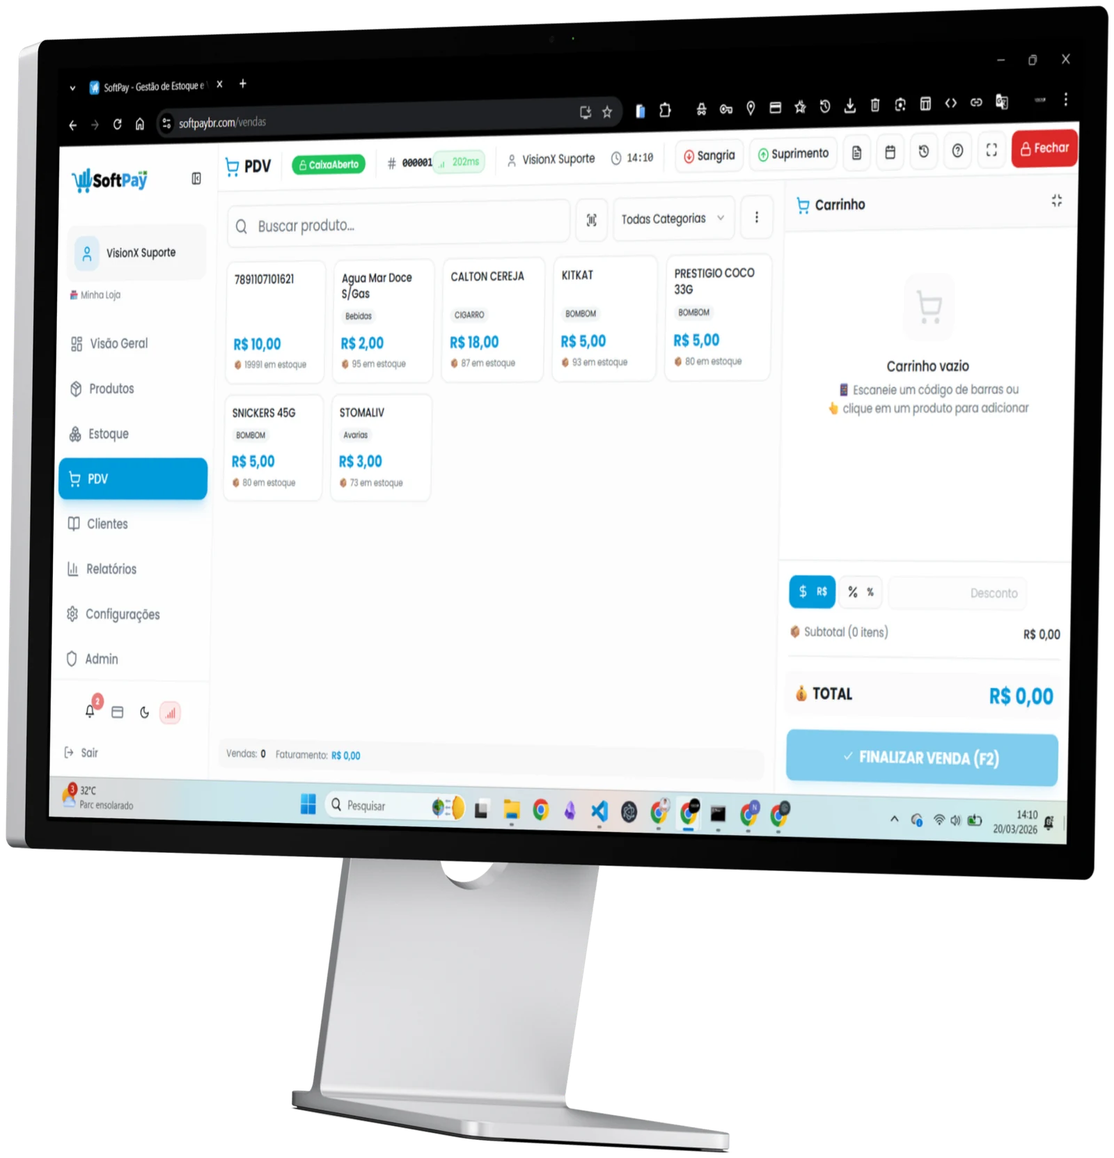
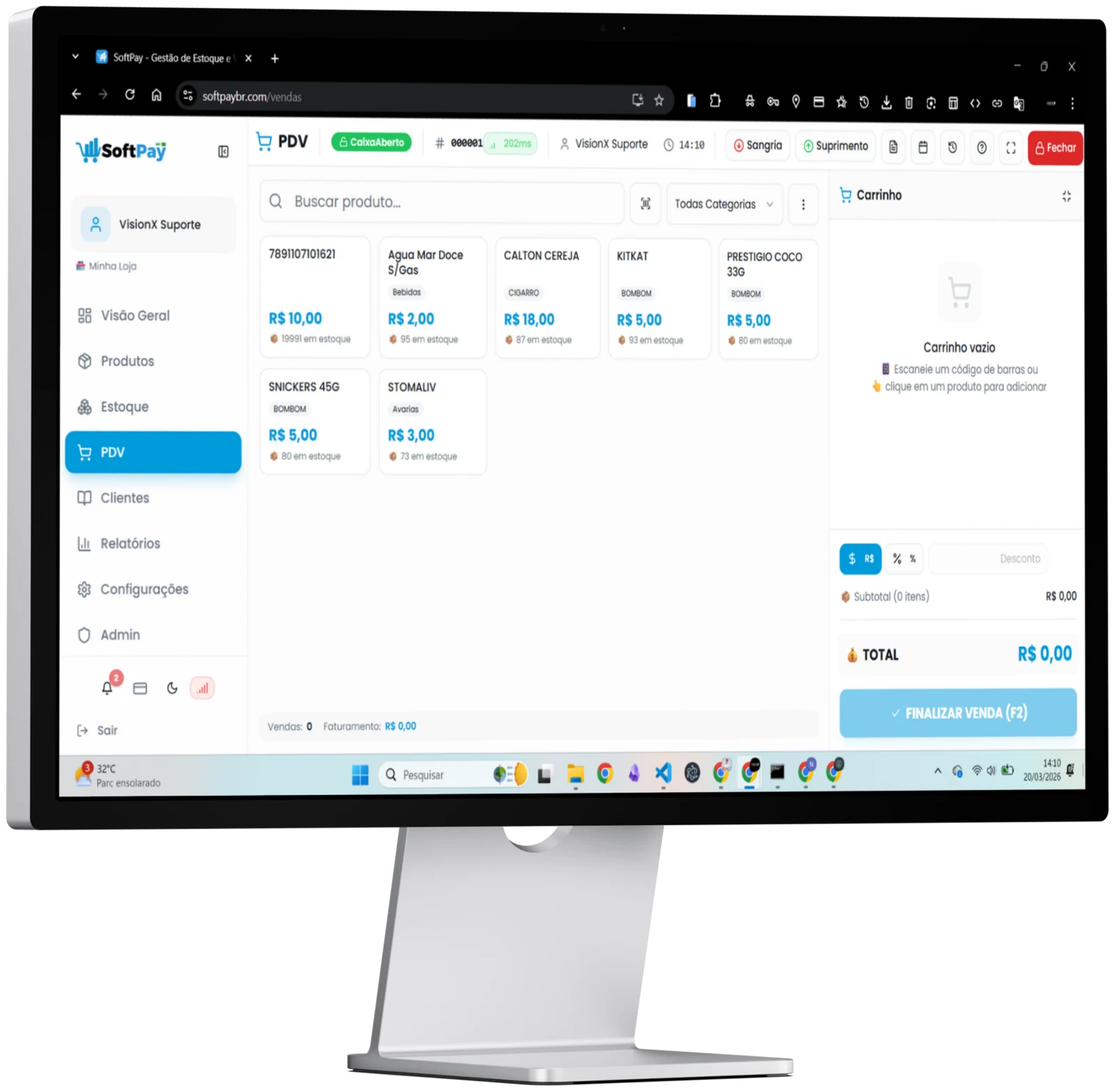
Hero: corrige só a tela e deixa a base intocada — terceira versão, agora medida
As duas versões anteriores entortaram a base, e eu aprovei as duas olhando de
longe. Medido agora, no arquivo, em vez de no olho:

  original      topo +4,77°   moldura inferior -0,30°   base +0,14°
  versão 70%    topo -1,85°   moldura inferior +1,88°   base +5,12°

Ou seja: a arte de origem não é uma rotação 3D — só o topo é inclinado; a
moldura inferior e a base já eram niveladas e coerentes entre si. A
transformada projetiva que eu aplicava, ao nivelar o topo, girava tudo abaixo
da tela para o lado oposto: a base saía de +0,14° para +5,12°. Era isso que
"não seguia o monitor".

Correção certa: reescala vertical por coluna, só na faixa entre o topo do
monitor e o fundo da moldura (y=2521 no original), reduzindo 85% da
inclinação do topo. Abaixo da moldura, identidade — haste e base não são
tocadas, então continuam exatamente como no render.

  resultado     topo +0,72°   moldura inferior -0,30°   base +0,14°

A altura da borda direita da tela vai de 90% para 99% da esquerda: a tela
olha para quem lê, com uma sobra de perspectiva de propósito ("semi reto").

- assets/COmputador.webp: 1600x1567, 101 KB.
- index.html: height 1567 nas duas tags.
- CSS não muda. Medido: 529px de largura no desktop, o mesmo do original.

Resíduo que não se resolve em 2D: a borda prateada esquerda do monitor segue
visível e a direita não, porque o render foi feito virado. Só um novo render
3D corrige; é sutil.

diff --git a/public/index.html b/public/index.html
@@ -28,7 +28,7 @@
     <meta property="og:title" content="Sistema de Gestão para Pequenos Negócios | SoftPay" />
     <meta property="og:description"
         content="Controle vendas, estoque, caixa, fiado e muito mais em um sistema simples e completo para pequenos negócios. Teste o SoftPay grátis por 7 dias." />
-    <meta property="og:image" content="https://site.softpaybr.com/assets/COmputador.webp?v=d928fe14a3" />
+    <meta property="og:image" content="https://site.softpaybr.com/assets/COmputador.webp?v=14eb0e9e1b" />
     <meta property="og:image:alt" content="Painel do SoftPay aberto em um computador" />
 
     <!-- X / Twitter Card -->
@@ -36,10 +36,10 @@
     <meta name="twitter:title" content="Sistema de Gestão para Pequenos Negócios | SoftPay" />
     <meta name="twitter:description"
         content="Controle vendas, estoque, caixa, fiado e muito mais em um sistema simples e completo para pequenos negócios. Teste o SoftPay grátis por 7 dias." />
-    <meta name="twitter:image" content="https://site.softpaybr.com/assets/COmputador.webp?v=d928fe14a3" />
+    <meta name="twitter:image" content="https://site.softpaybr.com/assets/COmputador.webp?v=14eb0e9e1b" />
     <link rel="preconnect" href="https://fonts.googleapis.com" />
     <link rel="preconnect" href="https://fonts.gstatic.com" crossorigin />
-    <link rel="preload" as="image" href="/assets/COmputador.webp?v=d928fe14a3" fetchpriority="high" />
+    <link rel="preload" as="image" href="/assets/COmputador.webp?v=14eb0e9e1b" fetchpriority="high" />
     <link rel="preload" as="style" href="https://fonts.googleapis.com/css2?family=Plus+Jakarta+Sans:wght@400;500;600;700;800&display=swap" />
     <link rel="stylesheet" href="https://fonts.googleapis.com/css2?family=Plus+Jakarta+Sans:wght@400;500;600;700;800&display=swap"
         media="print" onload="this.media='all';this.onload=null" />
@@ -135,7 +135,7 @@
           "about": {
             "@id": "https://site.softpaybr.com/#softpay"
           },
-          "primaryImageOfPage": "https://site.softpaybr.com/assets/COmputador.webp?v=d928fe14a3"
+          "primaryImageOfPage": "https://site.softpaybr.com/assets/COmputador.webp?v=14eb0e9e1b"
         },
         {
           "@type": "SoftwareApplication",
@@ -570,7 +570,7 @@
                 </div>
 
                 <div class="hero-media">
-                    <img src="assets/COmputador.webp?v=d928fe14a3" width="1600" height="1663" fetchpriority="high" decoding="async"
+                    <img src="assets/COmputador.webp?v=14eb0e9e1b" width="1600" height="1567" fetchpriority="high" decoding="async"
                         alt="Painel do SoftPay aberto no computador, com o PDV e o resumo de vendas da loja" />
                 </div>
             </div>
@@ -1323,7 +1323,7 @@
                         </ul>
                     </div>
                     <div class="showcase-image">
-                        <img src="assets/COmputador.webp?v=d928fe14a3" width="1600" height="1663" loading="lazy" decoding="async"
+                        <img src="assets/COmputador.webp?v=14eb0e9e1b" width="1600" height="1567" loading="lazy" decoding="async"
                             alt="SoftPay no computador: painel de gestão com vendas, estoque e caixa" />
                     </div>
                 </div>

diff --git a/public/perguntas/quanto-custa-um-sistema-para-loja/index.html b/public/perguntas/quanto-custa-um-sistema-para-loja/index.html
@@ -16,12 +16,12 @@
     <meta property="og:url" content="https://site.softpaybr.com/perguntas/quanto-custa-um-sistema-para-loja/" />
     <meta property="og:title" content="Quanto Custa um Sistema para Loja? Preços 2026 | SoftPay" />
     <meta property="og:description" content="Quanto custa um sistema de gestão para loja no Brasil, o que faz o preço variar e o que checar antes de contratar. Planos SoftPay de R$ 65 a R$ 109/mês." />
-    <meta property="og:image" content="https://site.softpaybr.com/assets/COmputador.webp?v=d928fe14a3" />
+    <meta property="og:image" content="https://site.softpaybr.com/assets/COmputador.webp?v=14eb0e9e1b" />
     <meta property="og:image:alt" content="Painel do SoftPay aberto em um computador" />
     <meta name="twitter:card" content="summary_large_image" />
     <meta name="twitter:title" content="Quanto Custa um Sistema para Loja? Preços 2026 | SoftPay" />
     <meta name="twitter:description" content="Quanto custa um sistema de gestão para loja no Brasil, o que faz o preço variar e o que checar antes de contratar. Planos SoftPay de R$ 65 a R$ 109/mês." />
-    <meta name="twitter:image" content="https://site.softpaybr.com/assets/COmputador.webp?v=d928fe14a3" />
+    <meta name="twitter:image" content="https://site.softpaybr.com/assets/COmputador.webp?v=14eb0e9e1b" />
 
     <link rel="preconnect" href="https://fonts.googleapis.com" />
     <link rel="preconnect" href="https://fonts.gstatic.com" crossorigin />
@@ -51,7 +51,7 @@
             "@id": "https://site.softpaybr.com/#softpay"
           },
           "dateModified": "2026-09-04",
-          "primaryImageOfPage": "https://site.softpaybr.com/assets/COmputador.webp?v=d928fe14a3"
+          "primaryImageOfPage": "https://site.softpaybr.com/assets/COmputador.webp?v=14eb0e9e1b"
         },
         {
           "@type": "BreadcrumbList",

diff --git a/public/segmentos/index.html b/public/segmentos/index.html
@@ -16,12 +16,12 @@
     <meta property="og:url" content="https://site.softpaybr.com/segmentos/" />
     <meta property="og:title" content="Sistema de Gestão por Segmento de Loja | SoftPay" />
     <meta property="og:description" content="Veja como o SoftPay atende cada tipo de comércio: mercadinho, roupas, variedades, papelaria, farmácia, distribuidora, celulares, autopeças, construção, joias, filiais e MEI." />
-    <meta property="og:image" content="https://site.softpaybr.com/assets/COmputador.webp?v=d928fe14a3" />
+    <meta property="og:image" content="https://site.softpaybr.com/assets/COmputador.webp?v=14eb0e9e1b" />
     <meta property="og:image:alt" content="Painel do SoftPay aberto em um computador" />
     <meta name="twitter:card" content="summary_large_image" />
     <meta name="twitter:title" content="Sistema de Gestão por Segmento de Loja | SoftPay" />
     <meta name="twitter:description" content="Veja como o SoftPay atende cada tipo de comércio: mercadinho, roupas, variedades, papelaria, farmácia, distribuidora, celulares, autopeças, construção, joias, filiais e MEI." />
-    <meta name="twitter:image" content="https://site.softpaybr.com/assets/COmputador.webp?v=d928fe14a3" />
+    <meta name="twitter:image" content="https://site.softpaybr.com/assets/COmputador.webp?v=14eb0e9e1b" />
 
     <link rel="preconnect" href="https://fonts.googleapis.com" />
     <link rel="preconnect" href="https://fonts.gstatic.com" crossorigin />
@@ -51,7 +51,7 @@
             "@id": "https://site.softpaybr.com/#softpay"
           },
           "dateModified": "2026-09-04",
-          "primaryImageOfPage": "https://site.softpaybr.com/assets/COmputador.webp?v=d928fe14a3"
+          "primaryImageOfPage": "https://site.softpaybr.com/assets/COmputador.webp?v=14eb0e9e1b"
         },
         {
           "@type": "BreadcrumbList",

diff --git a/public/sistema-de-gestao-para-pequenos-negocios/index.html b/public/sistema-de-gestao-para-pequenos-negocios/index.html
@@ -16,12 +16,12 @@
     <meta property="og:url" content="https://site.softpaybr.com/sistema-de-gestao-para-pequenos-negocios/" />
     <meta property="og:title" content="O que é um Sistema de Gestão? Guia do Lojista | SoftPay" />
     <meta property="og:description" content="O que é um sistema de gestão, para quem serve, quanto custa e o que ele resolve numa loja pequena: estoque, PDV, caixa, fiado, notas fiscais e lucro." />
-    <meta property="og:image" content="https://site.softpaybr.com/assets/COmputador.webp?v=d928fe14a3" />
+    <meta property="og:image" content="https://site.softpaybr.com/assets/COmputador.webp?v=14eb0e9e1b" />
     <meta property="og:image:alt" content="Painel do SoftPay aberto em um computador" />
     <meta name="twitter:card" content="summary_large_image" />
     <meta name="twitter:title" content="O que é um Sistema de Gestão? Guia do Lojista | SoftPay" />
     <meta name="twitter:description" content="O que é um sistema de gestão, para quem serve, quanto custa e o que ele resolve numa loja pequena: estoque, PDV, caixa, fiado, notas fiscais e lucro." />
-    <meta name="twitter:image" content="https://site.softpaybr.com/assets/COmputador.webp?v=d928fe14a3" />
+    <meta name="twitter:image" content="https://site.softpaybr.com/assets/COmputador.webp?v=14eb0e9e1b" />
 
     <link rel="preconnect" href="https://fonts.googleapis.com" />
     <link rel="preconnect" href="https://fonts.gstatic.com" crossorigin />
@@ -51,7 +51,7 @@
             "@id": "https://site.softpaybr.com/#softpay"
           },
           "dateModified": "2026-09-04",
-          "primaryImageOfPage": "https://site.softpaybr.com/assets/COmputador.webp?v=d928fe14a3"
+          "primaryImageOfPage": "https://site.softpaybr.com/assets/COmputador.webp?v=14eb0e9e1b"
         },
         {
           "@type": "BreadcrumbList",

diff --git a/public/segmentos/materiais-de-construcao/index.html b/public/segmentos/materiais-de-construcao/index.html
@@ -16,12 +16,12 @@
     <meta property="og:url" content="https://site.softpaybr.com/segmentos/materiais-de-construcao/" />
     <meta property="og:title" content="Sistema para Loja de Material de Construção | SoftPay" />
     <meta property="og:description" content="Sistema para material de construção com atacado e varejo, controle de estoque, fiado de obra, venda de valor alto e nota fiscal. Teste grátis por 7 dias." />
-    <meta property="og:image" content="https://site.softpaybr.com/assets/COmputador.webp?v=d928fe14a3" />
+    <meta property="og:image" content="https://site.softpaybr.com/assets/COmputador.webp?v=14eb0e9e1b" />
     <meta property="og:image:alt" content="Painel do SoftPay aberto em um computador" />
     <meta name="twitter:card" content="summary_large_image" />
     <meta name="twitter:title" content="Sistema para Loja de Material de Construção | SoftPay" />
     <meta name="twitter:description" content="Sistema para material de construção com atacado e varejo, controle de estoque, fiado de obra, venda de valor alto e nota fiscal. Teste grátis por 7 dias." />
-    <meta name="twitter:image" content="https://site.softpaybr.com/assets/COmputador.webp?v=d928fe14a3" />
+    <meta name="twitter:image" content="https://site.softpaybr.com/assets/COmputador.webp?v=14eb0e9e1b" />
 
     <link rel="preconnect" href="https://fonts.googleapis.com" />
     <link rel="preconnect" href="https://fonts.gstatic.com" crossorigin />
@@ -51,7 +51,7 @@
             "@id": "https://site.softpaybr.com/#softpay"
           },
           "dateModified": "2026-09-04",
-          "primaryImageOfPage": "https://site.softpaybr.com/assets/COmputador.webp?v=d928fe14a3"
+          "primaryImageOfPage": "https://site.softpaybr.com/assets/COmputador.webp?v=14eb0e9e1b"
         },
         {
           "@type": "BreadcrumbList",

diff --git a/public/segmentos/empresas-com-filiais/index.html b/public/segmentos/empresas-com-filiais/index.html
@@ -16,12 +16,12 @@
     <meta property="og:url" content="https://site.softpaybr.com/segmentos/empresas-com-filiais/" />
     <meta property="og:title" content="Sistema para Empresa com Filiais e Rede de Lojas | SoftPay" />
     <meta property="og:description" content="Sistema de gestão para empresa com mais de uma loja: filiais na mesma conta, equipe com acesso próprio e visão do conjunto. Teste grátis por 7 dias." />
-    <meta property="og:image" content="https://site.softpaybr.com/assets/COmputador.webp?v=d928fe14a3" />
+    <meta property="og:image" content="https://site.softpaybr.com/assets/COmputador.webp?v=14eb0e9e1b" />
     <meta property="og:image:alt" content="Painel do SoftPay aberto em um computador" />
     <meta name="twitter:card" content="summary_large_image" />
     <meta name="twitter:title" content="Sistema para Empresa com Filiais e Rede de Lojas | SoftPay" />
     <meta name="twitter:description" content="Sistema de gestão para empresa com mais de uma loja: filiais na mesma conta, equipe com acesso próprio e visão do conjunto. Teste grátis por 7 dias." />
-    <meta name="twitter:image" content="https://site.softpaybr.com/assets/COmputador.webp?v=d928fe14a3" />
+    <meta name="twitter:image" content="https://site.softpaybr.com/assets/COmputador.webp?v=14eb0e9e1b" />
 
     <link rel="preconnect" href="https://fonts.googleapis.com" />
     <link rel="preconnect" href="https://fonts.gstatic.com" crossorigin />
@@ -51,7 +51,7 @@
             "@id": "https://site.softpaybr.com/#softpay"
           },
           "dateModified": "2026-09-04",
-          "primaryImageOfPage": "https://site.softpaybr.com/assets/COmputador.webp?v=d928fe14a3"
+          "primaryImageOfPage": "https://site.softpaybr.com/assets/COmputador.webp?v=14eb0e9e1b"
         },
         {
           "@type": "BreadcrumbList",

diff --git a/public/perguntas/posso-usar-em-varios-dispositivos/index.html b/public/perguntas/posso-usar-em-varios-dispositivos/index.html
@@ -16,12 +16,12 @@
     <meta property="og:url" content="https://site.softpaybr.com/perguntas/posso-usar-em-varios-dispositivos/" />
     <meta property="og:title" content="Posso Usar o SoftPay em Vários Dispositivos? | SoftPay" />
     <meta property="og:description" content="Use o SoftPay no computador do balcão, no notebook e no celular ao mesmo tempo, com multi-login por funcionário. Veja os limites de cada plano." />
-    <meta property="og:image" content="https://site.softpaybr.com/assets/COmputador.webp?v=d928fe14a3" />
+    <meta property="og:image" content="https://site.softpaybr.com/assets/COmputador.webp?v=14eb0e9e1b" />
     <meta property="og:image:alt" content="Painel do SoftPay aberto em um computador" />
     <meta name="twitter:card" content="summary_large_image" />
     <meta name="twitter:title" content="Posso Usar o SoftPay em Vários Dispositivos? | SoftPay" />
     <meta name="twitter:description" content="Use o SoftPay no computador do balcão, no notebook e no celular ao mesmo tempo, com multi-login por funcionário. Veja os limites de cada plano." />
-    <meta name="twitter:image" content="https://site.softpaybr.com/assets/COmputador.webp?v=d928fe14a3" />
+    <meta name="twitter:image" content="https://site.softpaybr.com/assets/COmputador.webp?v=14eb0e9e1b" />
 
     <link rel="preconnect" href="https://fonts.googleapis.com" />
     <link rel="preconnect" href="https://fonts.gstatic.com" crossorigin />
@@ -51,7 +51,7 @@
             "@id": "https://site.softpaybr.com/#softpay"
           },
           "dateModified": "2026-09-04",
-          "primaryImageOfPage": "https://site.softpaybr.com/assets/COmputador.webp?v=d928fe14a3"
+          "primaryImageOfPage": "https://site.softpaybr.com/assets/COmputador.webp?v=14eb0e9e1b"
         },
         {
           "@type": "BreadcrumbList",

diff --git a/public/perguntas/e-dificil-aprender/index.html b/public/perguntas/e-dificil-aprender/index.html
@@ -16,12 +16,12 @@
     <meta property="og:url" content="https://site.softpaybr.com/perguntas/e-dificil-aprender/" />
     <meta property="og:title" content="É Difícil Aprender a Usar um Sistema de Gestão? | SoftPay" />
     <meta property="og:description" content="Quanto tempo leva para aprender a usar um sistema de gestão de loja, por onde começar e como o suporte humano do SoftPay ajuda na configuração." />
-    <meta property="og:image" content="https://site.softpaybr.com/assets/COmputador.webp?v=d928fe14a3" />
+    <meta property="og:image" content="https://site.softpaybr.com/assets/COmputador.webp?v=14eb0e9e1b" />
     <meta property="og:image:alt" content="Painel do SoftPay aberto em um computador" />
     <meta name="twitter:card" content="summary_large_image" />
     <meta name="twitter:title" content="É Difícil Aprender a Usar um Sistema de Gestão? | SoftPay" />
     <meta name="twitter:description" content="Quanto tempo leva para aprender a usar um sistema de gestão de loja, por onde começar e como o suporte humano do SoftPay ajuda na configuração." />
-    <meta name="twitter:image" content="https://site.softpaybr.com/assets/COmputador.webp?v=d928fe14a3" />
+    <meta name="twitter:image" content="https://site.softpaybr.com/assets/COmputador.webp?v=14eb0e9e1b" />
 
     <link rel="preconnect" href="https://fonts.googleapis.com" />
     <link rel="preconnect" href="https://fonts.gstatic.com" crossorigin />
@@ -51,7 +51,7 @@
             "@id": "https://site.softpaybr.com/#softpay"
           },
           "dateModified": "2026-09-04",
-          "primaryImageOfPage": "https://site.softpaybr.com/assets/COmputador.webp?v=d928fe14a3"
+          "primaryImageOfPage": "https://site.softpaybr.com/assets/COmputador.webp?v=14eb0e9e1b"
         },
         {
           "@type": "BreadcrumbList",

diff --git a/public/perguntas/loja-pequena-precisa-de-sistema/index.html b/public/perguntas/loja-pequena-precisa-de-sistema/index.html
@@ -16,12 +16,12 @@
     <meta property="og:url" content="https://site.softpaybr.com/perguntas/loja-pequena-precisa-de-sistema/" />
     <meta property="og:title" content="Loja Pequena Precisa de Sistema de Gestão? | SoftPay" />
     <meta property="og:description" content="Descubra se a sua loja pequena já precisa de um sistema de gestão: os sinais concretos, quando ainda dá para esperar e o que muda na prática." />
-    <meta property="og:image" content="https://site.softpaybr.com/assets/COmputador.webp?v=d928fe14a3" />
+    <meta property="og:image" content="https://site.softpaybr.com/assets/COmputador.webp?v=14eb0e9e1b" />
     <meta property="og:image:alt" content="Painel do SoftPay aberto em um computador" />
     <meta name="twitter:card" content="summary_large_image" />
     <meta name="twitter:title" content="Loja Pequena Precisa de Sistema de Gestão? | SoftPay" />
     <meta name="twitter:description" content="Descubra se a sua loja pequena já precisa de um sistema de gestão: os sinais concretos, quando ainda dá para esperar e o que muda na prática." />
-    <meta name="twitter:image" content="https://site.softpaybr.com/assets/COmputador.webp?v=d928fe14a3" />
+    <meta name="twitter:image" content="https://site.softpaybr.com/assets/COmputador.webp?v=14eb0e9e1b" />
 
     <link rel="preconnect" href="https://fonts.googleapis.com" />
     <link rel="preconnect" href="https://fonts.gstatic.com" crossorigin />
@@ -51,7 +51,7 @@
             "@id": "https://site.softpaybr.com/#softpay"
           },
           "dateModified": "2026-09-04",
-          "primaryImageOfPage": "https://site.softpaybr.com/assets/COmputador.webp?v=d928fe14a3"
+          "primaryImageOfPage": "https://site.softpaybr.com/assets/COmputador.webp?v=14eb0e9e1b"
         },
         {
           "@type": "BreadcrumbList",

diff --git a/public/segmentos/loja-de-joias/index.html b/public/segmentos/loja-de-joias/index.html
@@ -16,12 +16,12 @@
     <meta property="og:url" content="https://site.softpaybr.com/segmentos/loja-de-joias/" />
     <meta property="og:title" content="Sistema para Loja de Joias e Joalheria | SoftPay" />
     <meta property="og:description" content="Sistema para loja de joias com controle unitário de peça, custo e margem, cadastro de clientes e crediário próprio. Teste grátis por 7 dias, sem cartão." />
-    <meta property="og:image" content="https://site.softpaybr.com/assets/COmputador.webp?v=d928fe14a3" />
+    <meta property="og:image" content="https://site.softpaybr.com/assets/COmputador.webp?v=14eb0e9e1b" />
     <meta property="og:image:alt" content="Painel do SoftPay aberto em um computador" />
     <meta name="twitter:card" content="summary_large_image" />
     <meta name="twitter:title" content="Sistema para Loja de Joias e Joalheria | SoftPay" />
     <meta name="twitter:description" content="Sistema para loja de joias com controle unitário de peça, custo e margem, cadastro de clientes e crediário próprio. Teste grátis por 7 dias, sem cartão." />
-    <meta name="twitter:image" content="https://site.softpaybr.com/assets/COmputador.webp?v=d928fe14a3" />
+    <meta name="twitter:image" content="https://site.softpaybr.com/assets/COmputador.webp?v=14eb0e9e1b" />
 
     <link rel="preconnect" href="https://fonts.googleapis.com" />
     <link rel="preconnect" href="https://fonts.gstatic.com" crossorigin />
@@ -51,7 +51,7 @@
             "@id": "https://site.softpaybr.com/#softpay"
           },
           "dateModified": "2026-09-04",
-          "primaryImageOfPage": "https://site.softpaybr.com/assets/COmputador.webp?v=d928fe14a3"
+          "primaryImageOfPage": "https://site.softpaybr.com/assets/COmputador.webp?v=14eb0e9e1b"
         },
         {
           "@type": "BreadcrumbList",

diff --git a/public/segmentos/loja-de-autopecas/index.html b/public/segmentos/loja-de-autopecas/index.html
@@ -16,12 +16,12 @@
     <meta property="og:url" content="https://site.softpaybr.com/segmentos/loja-de-autopecas/" />
     <meta property="og:title" content="Sistema para Loja de Autopeças | SoftPay" />
     <meta property="og:description" content="Sistema para autopeças com catálogo amplo, busca rápida de peça, controle de estoque, curva ABC para itens parados, fiado e nota fiscal. Teste grátis 7 dias." />
-    <meta property="og:image" content="https://site.softpaybr.com/assets/COmputador.webp?v=d928fe14a3" />
+    <meta property="og:image" content="https://site.softpaybr.com/assets/COmputador.webp?v=14eb0e9e1b" />
     <meta property="og:image:alt" content="Painel do SoftPay aberto em um computador" />
     <meta name="twitter:card" content="summary_large_image" />
     <meta name="twitter:title" content="Sistema para Loja de Autopeças | SoftPay" />
     <meta name="twitter:description" content="Sistema para autopeças com catálogo amplo, busca rápida de peça, controle de estoque, curva ABC para itens parados, fiado e nota fiscal. Teste grátis 7 dias." />
-    <meta name="twitter:image" content="https://site.softpaybr.com/assets/COmputador.webp?v=d928fe14a3" />
+    <meta name="twitter:image" content="https://site.softpaybr.com/assets/COmputador.webp?v=14eb0e9e1b" />
 
     <link rel="preconnect" href="https://fonts.googleapis.com" />
     <link rel="preconnect" href="https://fonts.gstatic.com" crossorigin />
@@ -51,7 +51,7 @@
             "@id": "https://site.softpaybr.com/#softpay"
           },
           "dateModified": "2026-09-04",
-          "primaryImageOfPage": "https://site.softpaybr.com/assets/COmputador.webp?v=d928fe14a3"
+          "primaryImageOfPage": "https://site.softpaybr.com/assets/COmputador.webp?v=14eb0e9e1b"
         },
         {
           "@type": "BreadcrumbList",

diff --git a/public/perguntas/sistema-de-gestao-e-seguro/index.html b/public/perguntas/sistema-de-gestao-e-seguro/index.html
@@ -16,12 +16,12 @@
     <meta property="og:url" content="https://site.softpaybr.com/perguntas/sistema-de-gestao-e-seguro/" />
     <meta property="og:title" content="Sistema de Gestão na Nuvem é Seguro? | SoftPay" />
     <meta property="og:description" content="Como funciona a segurança de um sistema de gestão na nuvem: onde ficam os dados, backup automático, acesso por usuário e o que depende de você." />
-    <meta property="og:image" content="https://site.softpaybr.com/assets/COmputador.webp?v=d928fe14a3" />
+    <meta property="og:image" content="https://site.softpaybr.com/assets/COmputador.webp?v=14eb0e9e1b" />
     <meta property="og:image:alt" content="Painel do SoftPay aberto em um computador" />
     <meta name="twitter:card" content="summary_large_image" />
     <meta name="twitter:title" content="Sistema de Gestão na Nuvem é Seguro? | SoftPay" />
     <meta name="twitter:description" content="Como funciona a segurança de um sistema de gestão na nuvem: onde ficam os dados, backup automático, acesso por usuário e o que depende de você." />
-    <meta name="twitter:image" content="https://site.softpaybr.com/assets/COmputador.webp?v=d928fe14a3" />
+    <meta name="twitter:image" content="https://site.softpaybr.com/assets/COmputador.webp?v=14eb0e9e1b" />
 
     <link rel="preconnect" href="https://fonts.googleapis.com" />
     <link rel="preconnect" href="https://fonts.gstatic.com" crossorigin />
@@ -51,7 +51,7 @@
             "@id": "https://site.softpaybr.com/#softpay"
           },
           "dateModified": "2026-09-04",
-          "primaryImageOfPage": "https://site.softpaybr.com/assets/COmputador.webp?v=d928fe14a3"
+          "primaryImageOfPage": "https://site.softpaybr.com/assets/COmputador.webp?v=14eb0e9e1b"
         },
         {
           "@type": "BreadcrumbList",
